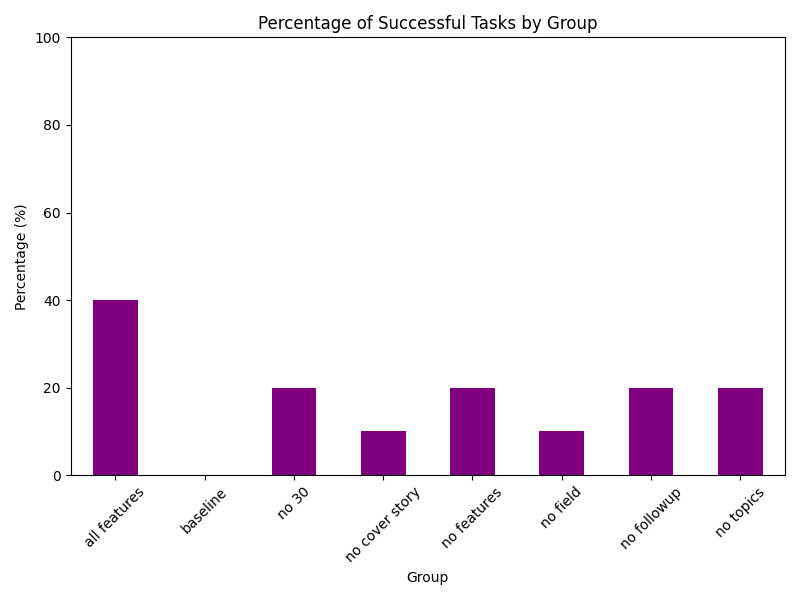
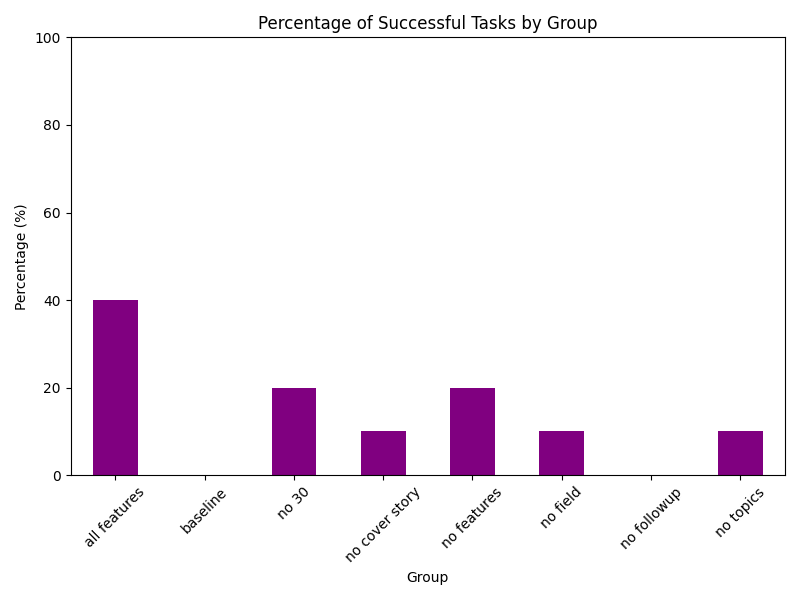
update calculate_success_percentage

Changed region(s): [[0.7812, 0.63, 0.8438, 0.81], [0.875, 0.63, 0.9688, 0.72]]

diff --git a/novel_problem_generator/experiment_results/visualize_results.py b/novel_problem_generator/experiment_results/visualize_results.py
@@ -39,7 +39,7 @@ def calculate_success_percentage(df):
         (df["Novelty"] > 3)
         & (df["Sensibleness"] > 2)
         & (df["Clarity"] > 2)
-        & (df["Difficulty"] >= 2)
+        & (df["Difficulty"] > 2)
     )
     return df.groupby("Group")["Successful"].mean() * 100
 
